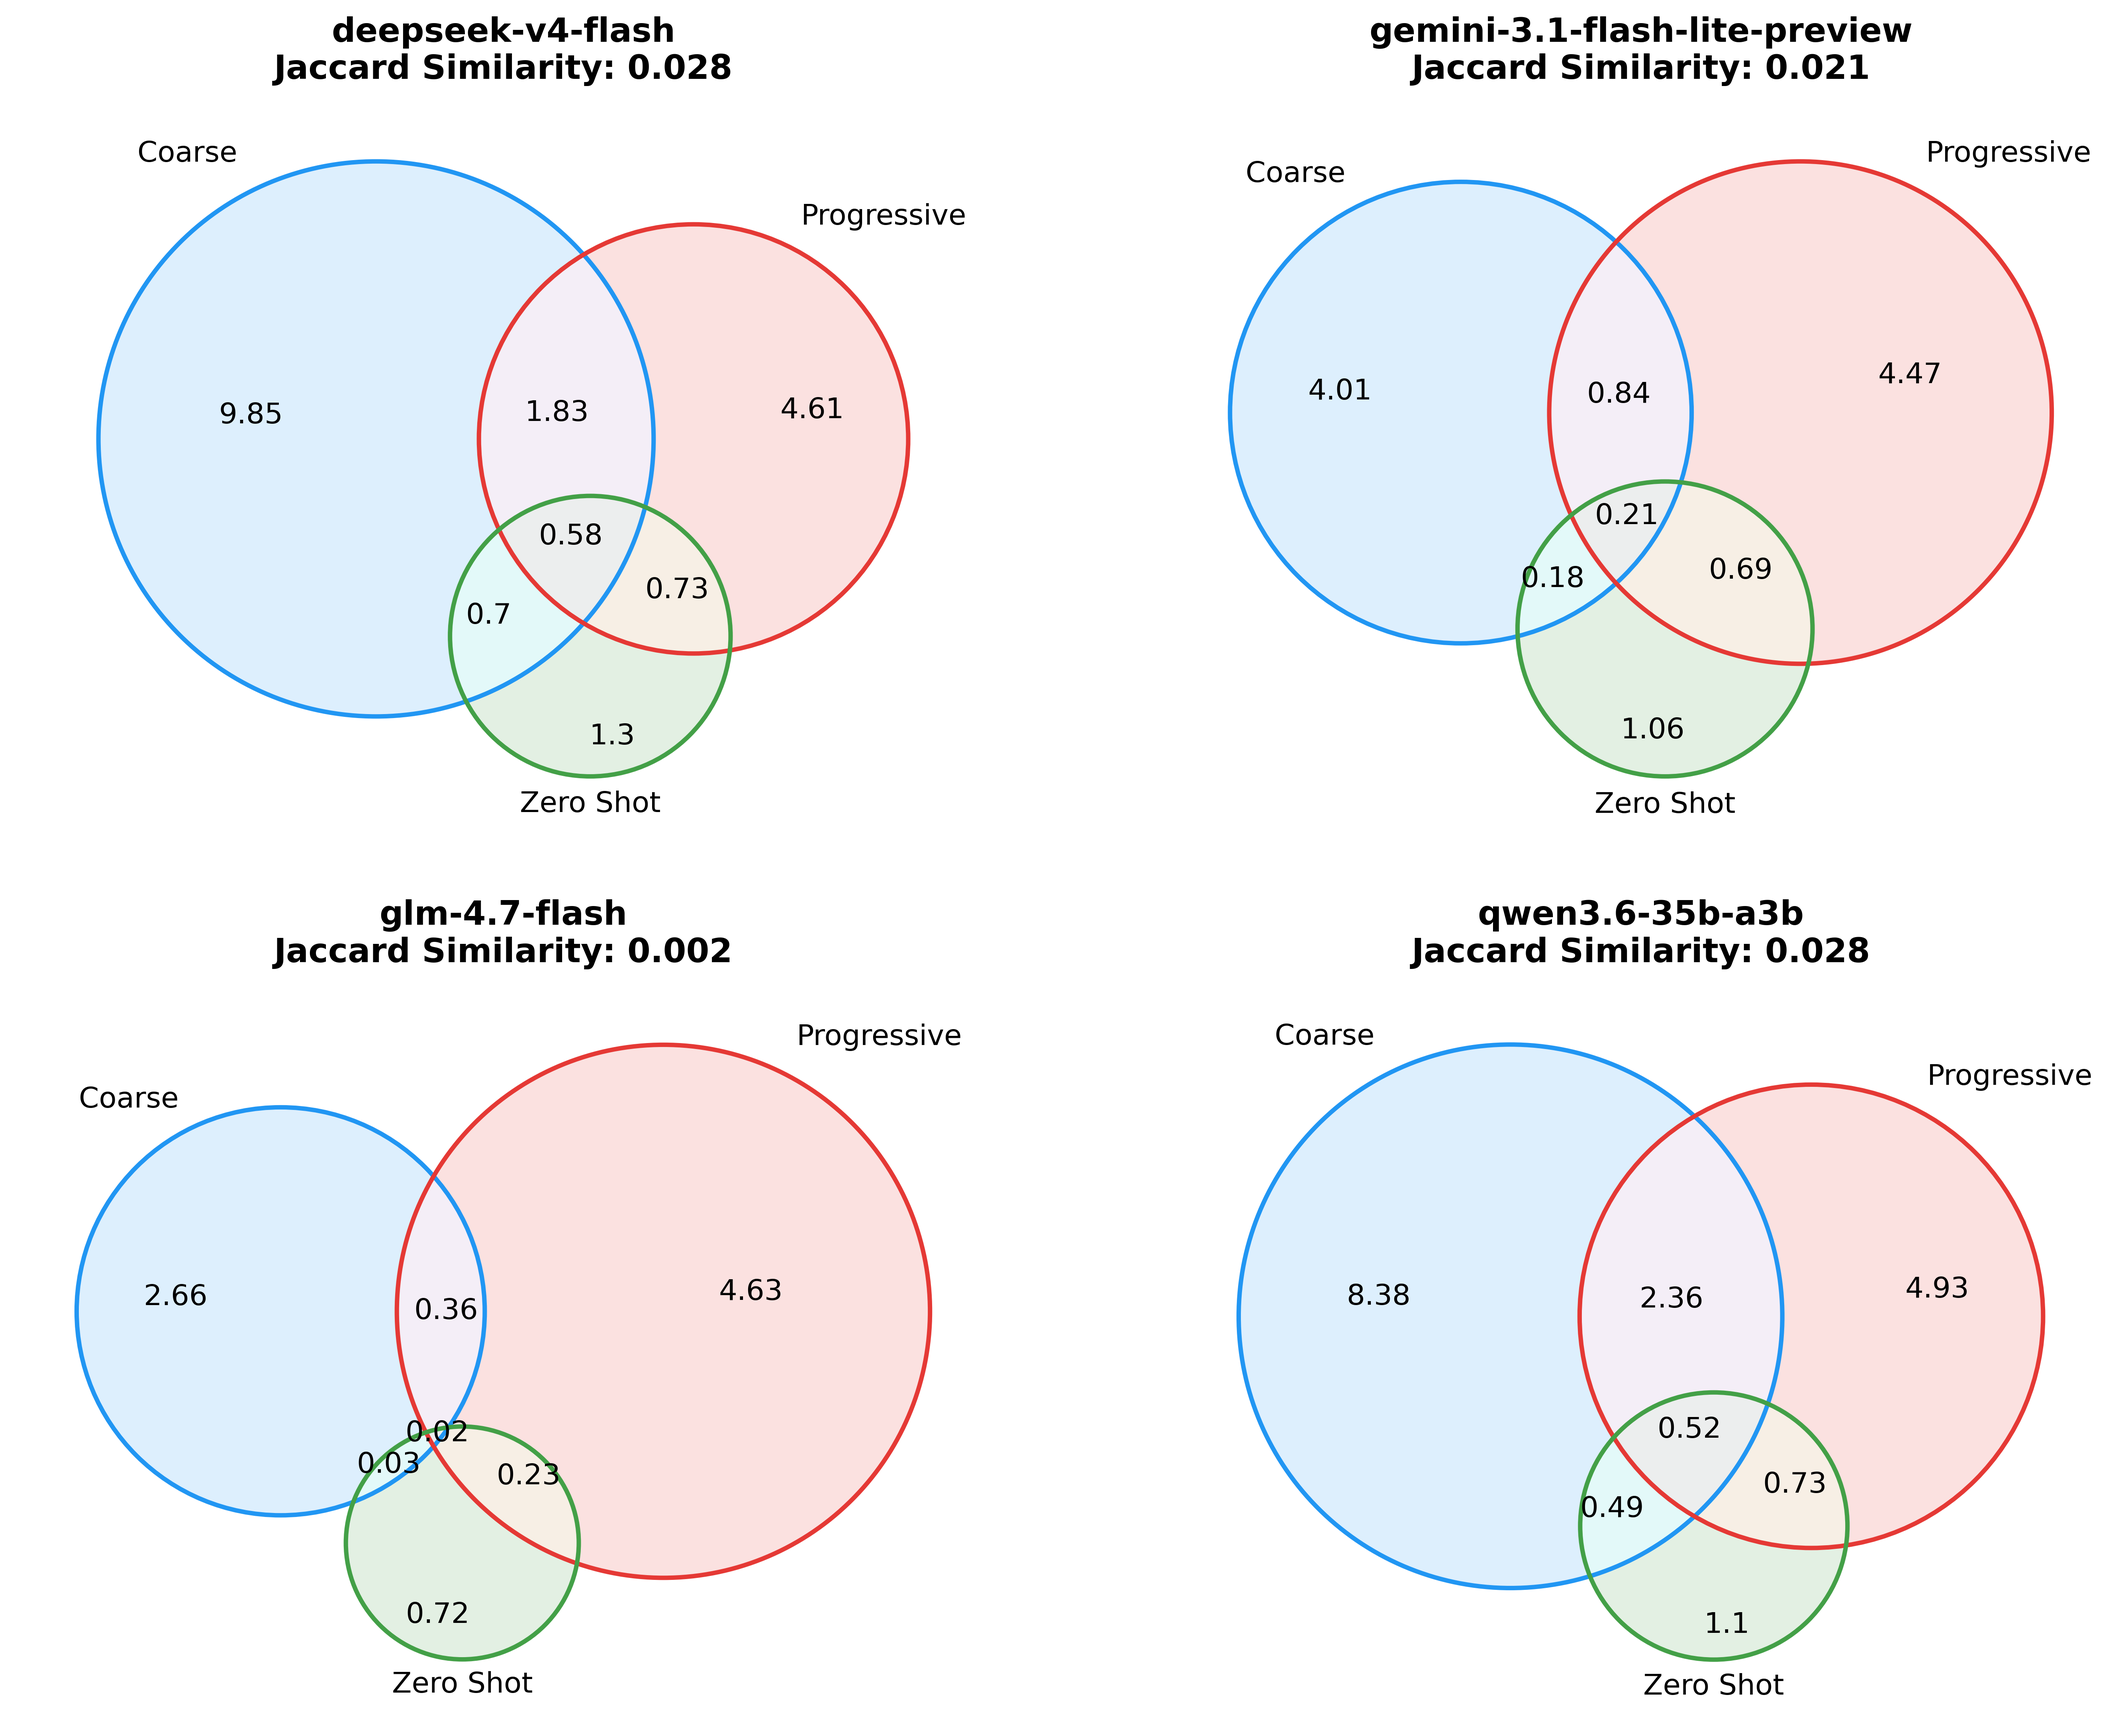
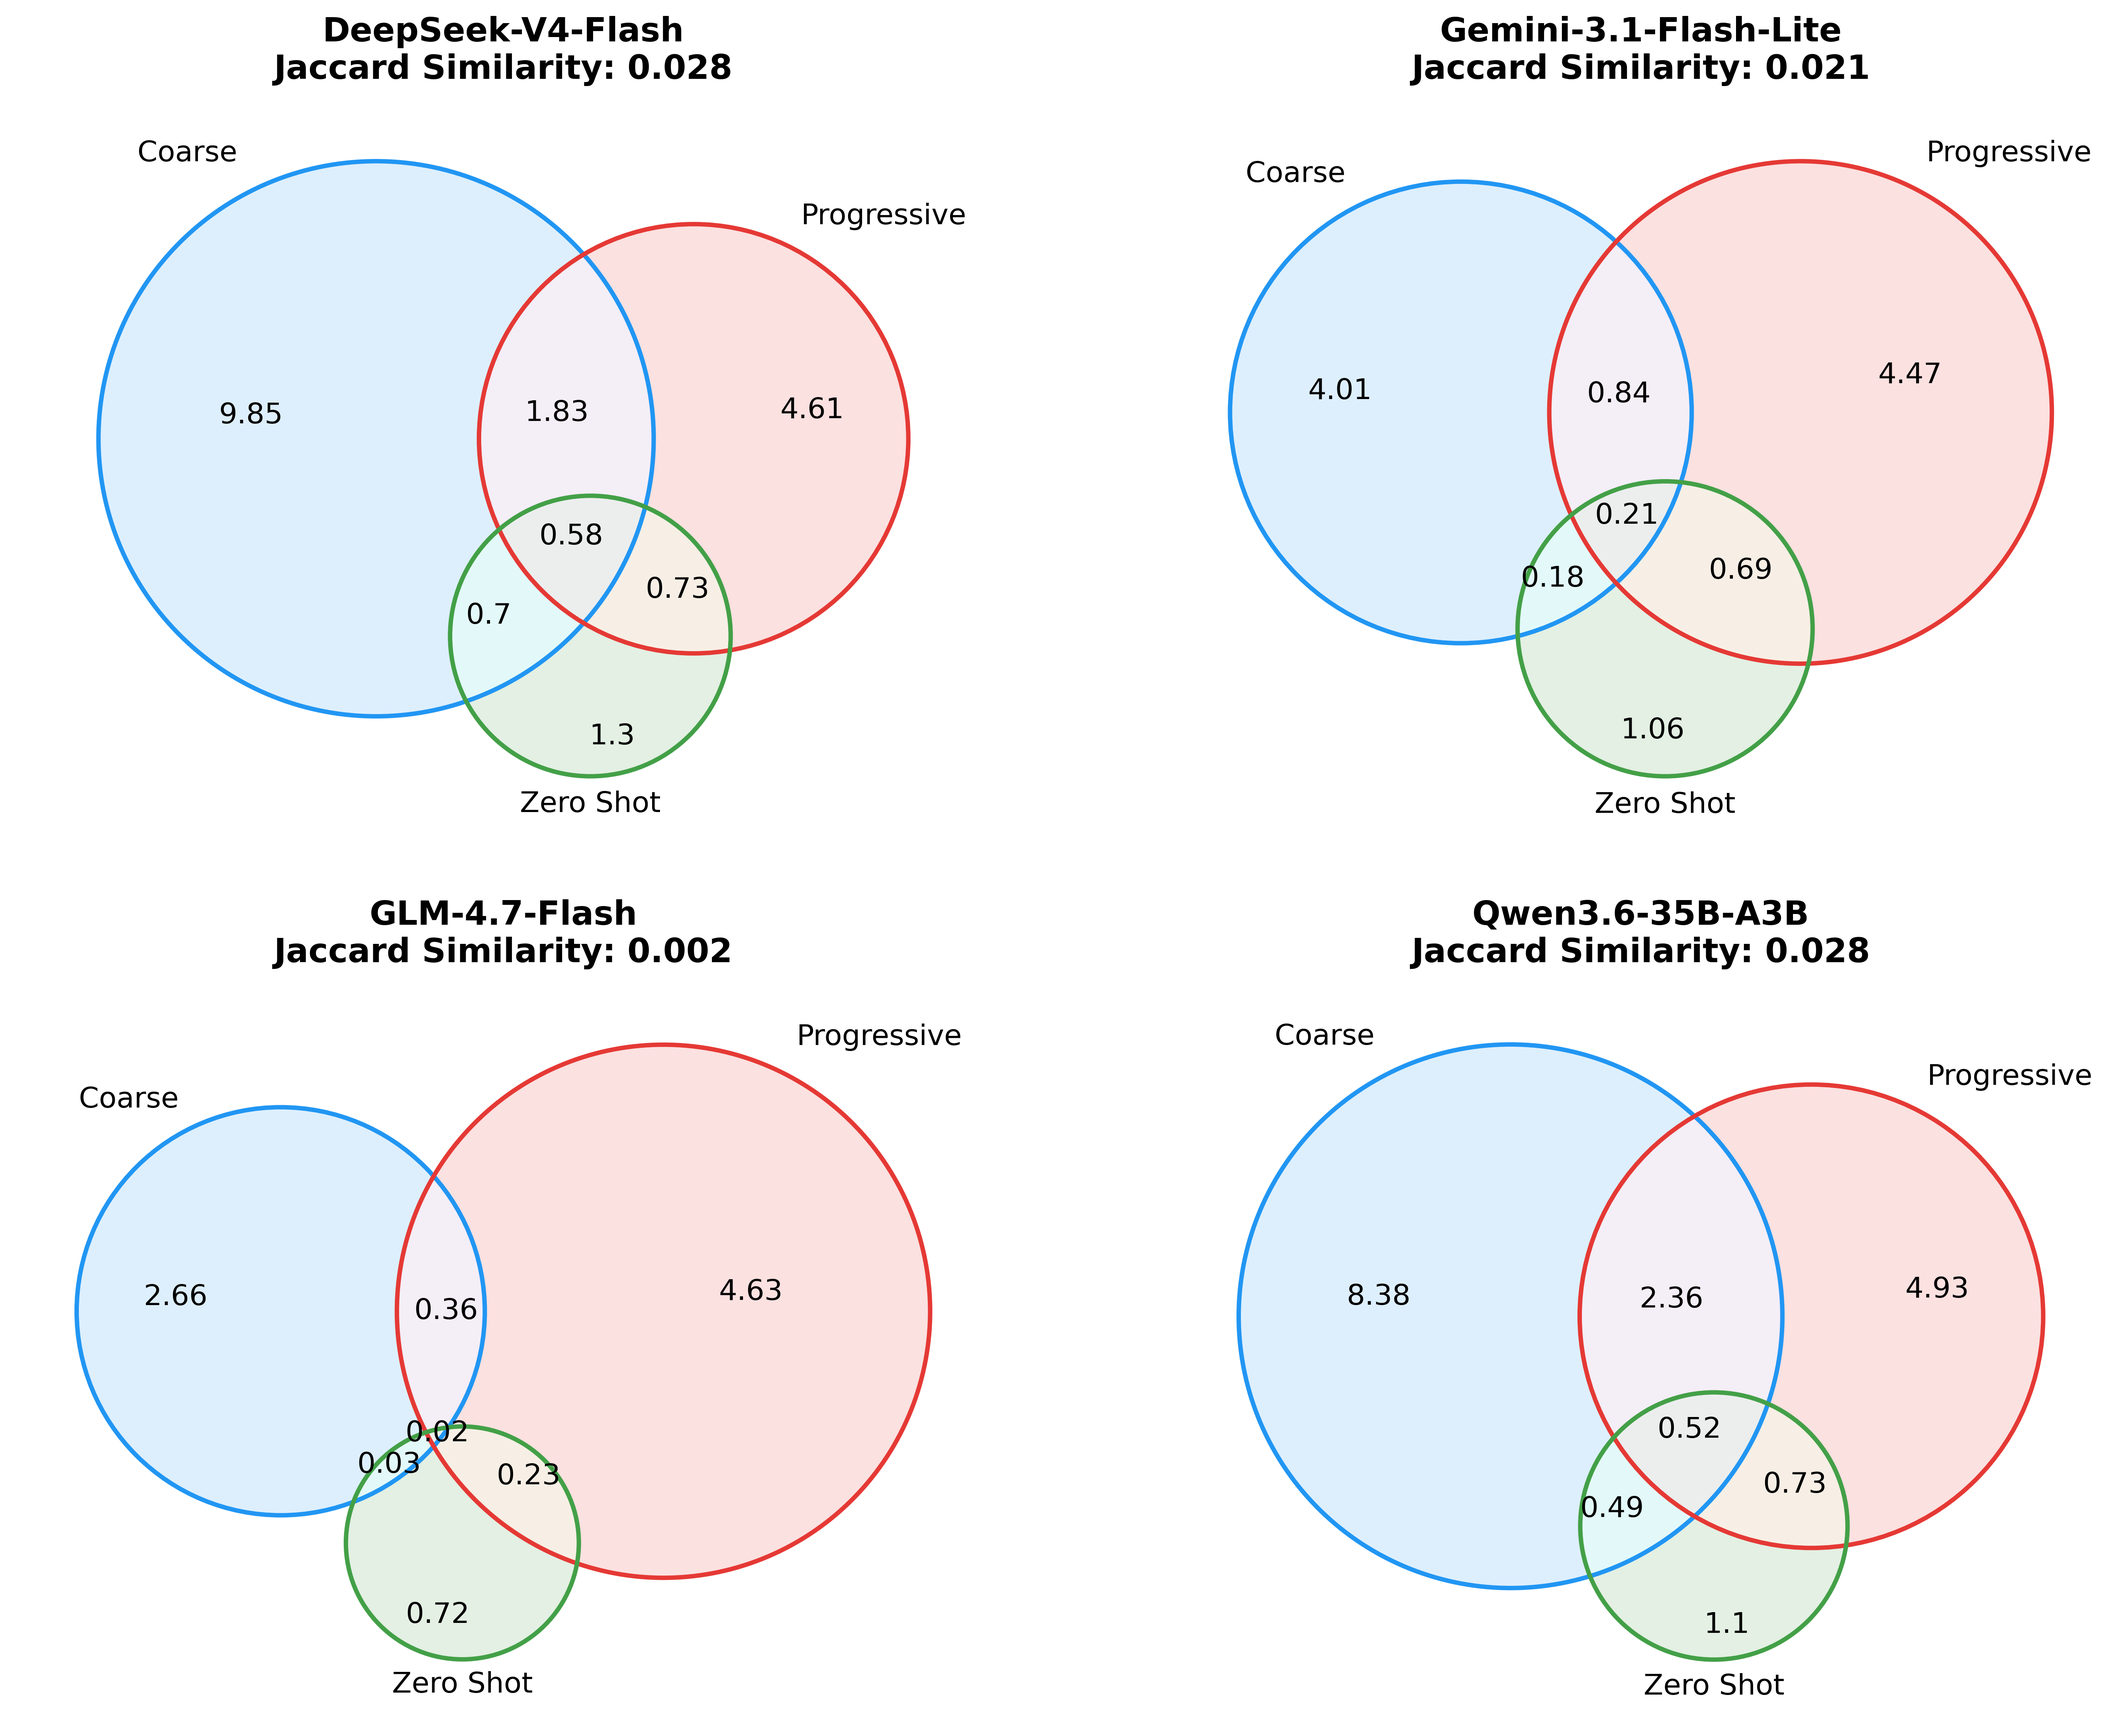
edited

diff --git a/benchmarks/results_iclr_coarse/analysis.py b/benchmarks/results_iclr_coarse/analysis.py
@@ -10,7 +10,14 @@ from sentence_transformers import SentenceTransformer
 from sklearn.feature_extraction.text import TfidfVectorizer                                                                                                                           
 from sklearn.cluster import KMeans                                                                                                                                                   
 from sklearn.manifold import TSNE                                                                                                                                                    
-from collections import Counter                                                                                                                                                  
+from collections import Counter  
+
+model_dict = {
+    'deepseek-v4-flash': 'DeepSeek-V4-Flash',
+    'gemini-3.1-flash-lite-preview': 'Gemini-3.1-Flash-Lite',
+    'glm-4.7-flash': 'GLM-4.7-Flash',
+    'qwen3.6-35b-a3b': 'Qwen3.6-35B-A3B'
+}
                                                                                                                                                                                                                                                                                                                                            
 def load(path):                                                                                                                                                                      
   return json.loads(Path(path).read_text())   
@@ -204,7 +211,7 @@ def plot_overlap_cp(overlap_avg):
                 set_label.set_fontsize(15)
                 set_label.set_color("black")
 
-        axes[i].set_title(f"{model}\nJaccard Similarity: {counts['jaccard_sim_avg']:.3f}",                                                                                               
+        axes[i].set_title(f"{model_dict.get(model, model)}\nJaccard Similarity: {counts['jaccard_sim_avg']:.3f}",
                             fontsize=15, fontweight="bold", pad=10)
                                                                                                                                                                                         
     plt.tight_layout()                                                                                                                                                                   
@@ -366,7 +373,7 @@ def plot_overlap_all(overlap_avg):
                 set_label.set_fontsize(13)
                 set_label.set_color("black")
 
-        axes[i].set_title(f"{model}\nJaccard Similarity: {counts['jaccard_sim_avg']:.3f}",
+        axes[i].set_title(f"{model_dict.get(model, model)}\nJaccard Similarity: {counts['jaccard_sim_avg']:.3f}",
                           fontsize=15, fontweight="bold", pad=10)
 
     plt.tight_layout()
